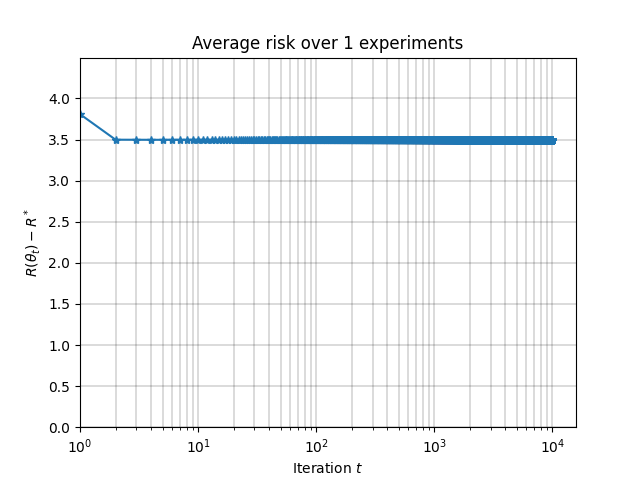
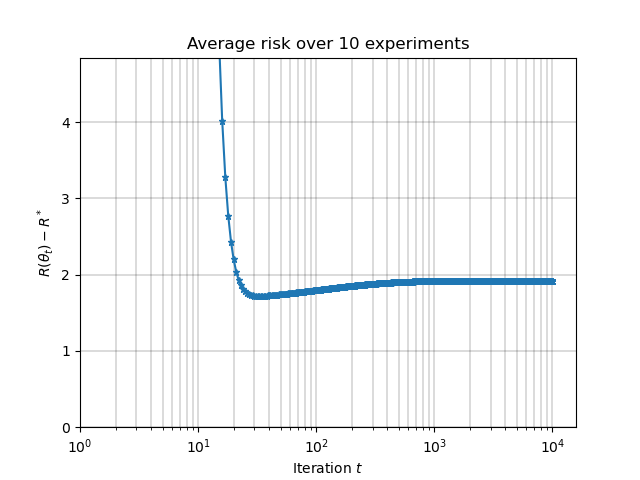
Ridge path

diff --git a/paper_like.py b/paper_like.py
@@ -13,17 +13,20 @@ n = 100
 sigma2 = 2
 
 lambda_ = 1e-3
+t_max_ridge = 5
 
 epochs = 10000
 intern_dim=10
 optimizer='GD'
+learning_rate = 0.001
 
-nb_avg = 1
+nb_avg = 10
 
 model_name = 'SLN' #'MLP' or 'SLN'
 
 ### Repeating experiment
 errors = np.zeros((nb_avg, epochs))
+error_ridge = np.zeros((nb_avg, epochs))
 for i in tqdm(range(nb_avg)):
     ### Data generation
     data = np.random.multivariate_normal(
@@ -40,7 +43,9 @@ for i in tqdm(range(nb_avg)):
     observations = np.array(observations) # shape (n,)
 
     ### Solving the problem
-    #w_ridge = ridge(data, observations, lambda_)
+    w_ridge = ridge_path(data, observations, nu, np.linspace(1e-1,t_max_ridge, epochs)) # (epochs, p)
+    for j in range(epochs):
+        error_ridge[i,j] = objective(data,observations,w_ridge[j,:])
 
     input_Tensor = torch.from_numpy(data).to(torch.float32)
     output_Tensor = torch.from_numpy(observations).to(torch.float32)
@@ -50,10 +55,12 @@ for i in tqdm(range(nb_avg)):
                                      intern_dim=intern_dim,
                                      output_dim=1,
                                      depth=0,
-                                     isBiased = False)
+                                     isBiased = False,
+                                    )
     elif model_name == 'SLN':
         model = SingleLayerNet(input_size=p,
-                             output_size=1)
+                             output_size=1,
+                             )
 
     errors[i,:] = train(model,
           input_Tensor,
@@ -64,12 +71,13 @@ for i in tqdm(range(nb_avg)):
           batch_size=None,
           return_vals=True,
           init_norm = None,
-          lr = 0.005)
+          lr = learning_rate)
 
 mean_error = np.mean(errors, axis=0)
+mean_error_ridge = np.mean(error_ridge, axis=0)
 
 fig1,ax1 = plt.subplots(1,1)
-ax1.plot(range(epochs), mean_error, marker='*')
+ax1.plot(range(epochs), mean_error-mean_error_ridge, marker='*', markersize=5)
 ax1.set_title(f'Average risk over {nb_avg} experiments')
 ax1.set_xlabel(r'Iteration $t$')
 ax1.set_ylabel(r'$R(\theta_t) - R^*$')

diff --git a/utils.py b/utils.py
@@ -18,6 +18,19 @@ def objective_nonlinear(A,b,Xs):
     x = np.squeeze(x)
     return ((A@x-b)**2).sum()/(2*A.shape[0])
 
+
+def nu(t, thresh=20):
+    idxs = t<thresh
+    if len(idxs)<len(t): # condition is met
+        res = np.hstack(
+            (100/81*(np.exp(0.99*t[idxs])-1),
+             100/81*(np.exp(0.99*thresh)-1)*np.ones(len(t)-len(t[idxs]))
+             )
+        )
+    else:
+        res = 100/81*(np.exp(0.99*t)-1)
+    return res
+
 ### Ridge regression (L2 penalization)
 def ridge(A,b,lambda_):
     '''
@@ -77,6 +90,19 @@ def solve_nonlinear_ridge(Ws, b, lambda_):
     x = ridge(A,b,lambda_)
     return x
 
+def ridge_path(A,b,nu,t):
+    '''
+    A: (n,d) array
+    b: (n,) array
+    nu: func
+    t: array-like
+    '''
+    res = np.zeros((len(t), A.shape[1]))
+    lambda_ = 1/(2*nu(t))
+    for idx,time in enumerate(t):
+        res[idx,:] = ridge(A,b,lambda_[idx])
+    return res
+
 ### CustomLoss
 class MSE(nn.Module):
     def __init__(self):
@@ -114,6 +140,7 @@ class SingleLayerNet(nn.Module):
     def __init__(self, input_size, output_size):
         super(SingleLayerNet, self).__init__()
         self.layer = nn.Linear(input_size, output_size, bias=False)
+        self.layer.weight.data.uniform_(0.0, 1.0)
         
     def forward(self, x):
         return self.layer(x)
